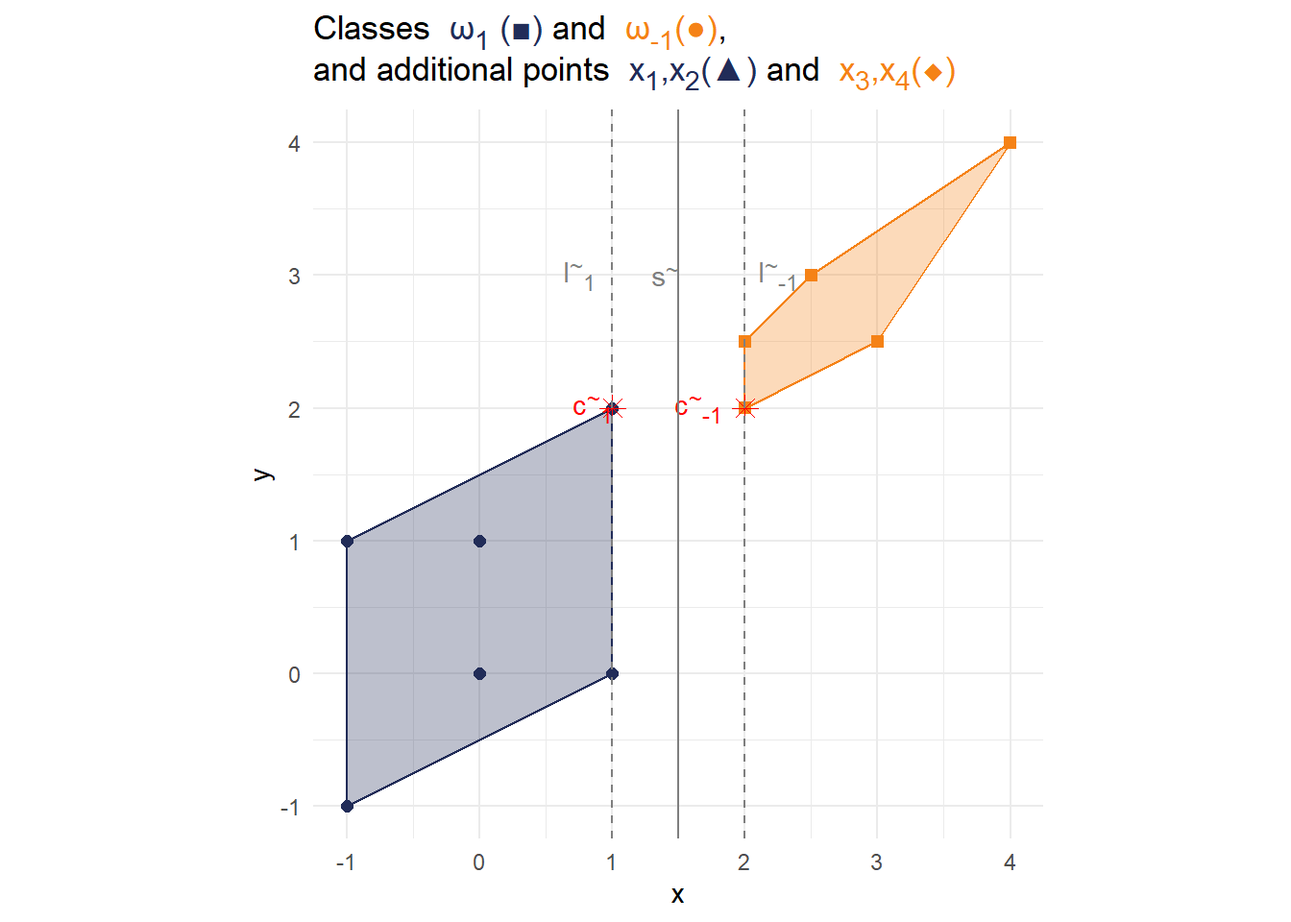
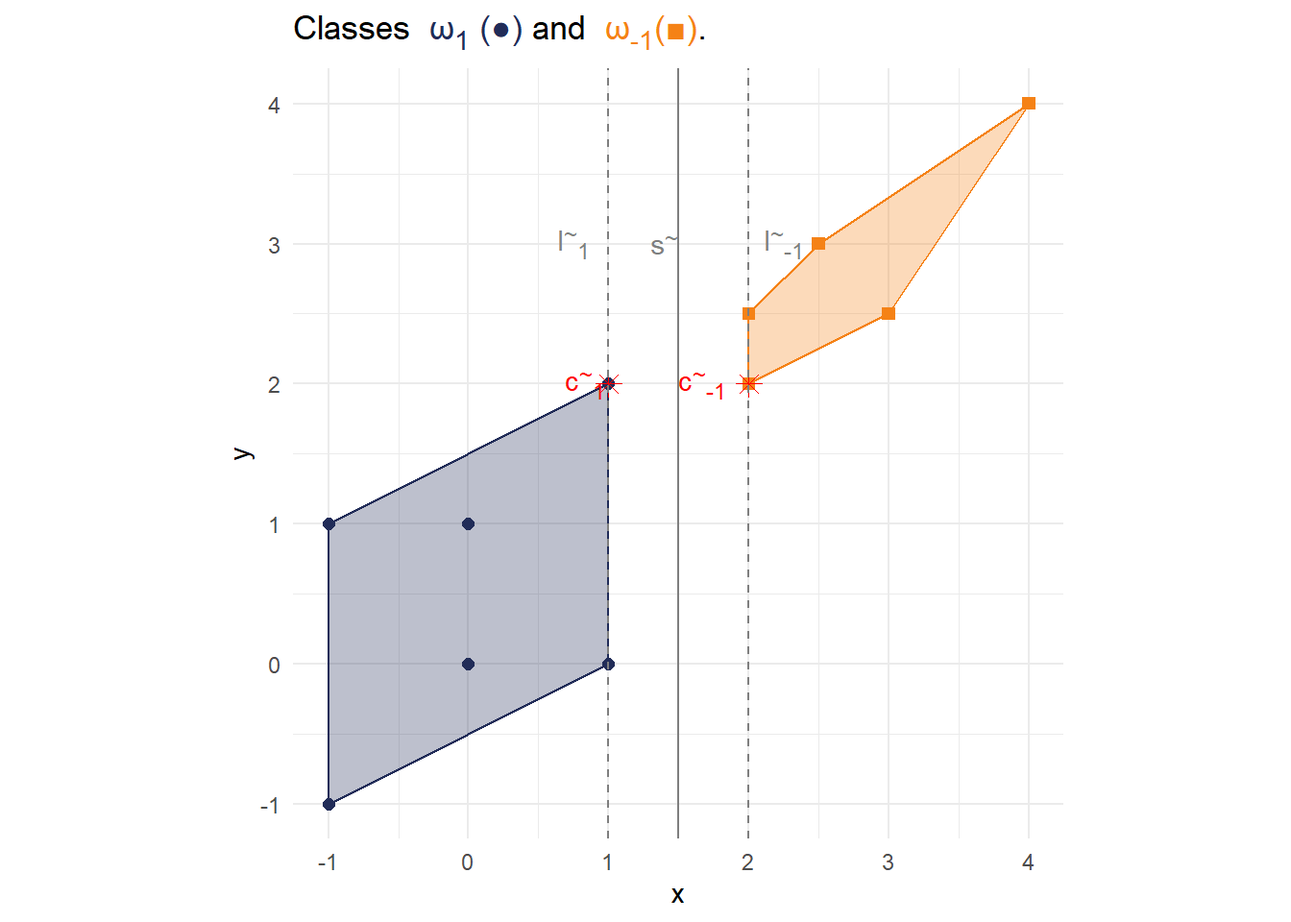
Update Solution Ex07

diff --git a/ML/Exercise07/Exercise_07_solution.html b/ML/Exercise07/Exercise_07_solution.html
@@ -335,8 +335,8 @@ Solution
 <div class="callout-body-container callout-body">
 <div class="cell">
 <div class="sourceCode cell-code" id="cb9"><pre class="sourceCode r code-with-copy"><code class="sourceCode r"><span id="cb9-1"><a href="#cb9-1" aria-hidden="true" tabindex="-1"></a>title_text <span class="ot">&lt;-</span> glue<span class="sc">::</span><span class="fu">glue</span>(</span>
-<span id="cb9-2"><a href="#cb9-2" aria-hidden="true" tabindex="-1"></a><span class="st">"Classes &lt;span style='color:{cols['1']};'&gt; &amp;omega;&lt;sub&gt;1&lt;/sub&gt;  (\u25A0)&lt;/span&gt;</span></span>
-<span id="cb9-3"><a href="#cb9-3" aria-hidden="true" tabindex="-1"></a><span class="st">and &lt;span style='color:{cols['-1']};'&gt; &amp;omega;&lt;sub&gt;-1&lt;/sub&gt;(\u25CF)&lt;/span&gt;,&lt;br&gt; and</span></span>
+<span id="cb9-2"><a href="#cb9-2" aria-hidden="true" tabindex="-1"></a><span class="st">"Classes &lt;span style='color:{cols['1']};'&gt; &amp;omega;&lt;sub&gt;1&lt;/sub&gt; (\u25CF) &lt;/span&gt;</span></span>
+<span id="cb9-3"><a href="#cb9-3" aria-hidden="true" tabindex="-1"></a><span class="st">and &lt;span style='color:{cols['-1']};'&gt; &amp;omega;&lt;sub&gt;-1&lt;/sub&gt;(\u25A0)&lt;/span&gt;,&lt;br&gt; and</span></span>
 <span id="cb9-4"><a href="#cb9-4" aria-hidden="true" tabindex="-1"></a><span class="st">additional points &lt;span style='color:{cols['1']};'&gt; x&lt;sub&gt;1&lt;/sub&gt;,x&lt;sub&gt;2&lt;/sub&gt;(\u25B2)&lt;/span&gt;</span></span>
 <span id="cb9-5"><a href="#cb9-5" aria-hidden="true" tabindex="-1"></a><span class="st">and &lt;span style='color:{cols['-1']};'&gt; x&lt;sub&gt;3&lt;/sub&gt;,x&lt;sub&gt;4&lt;/sub&gt;(\u25C6)&lt;/span&gt;"</span></span>
 <span id="cb9-6"><a href="#cb9-6" aria-hidden="true" tabindex="-1"></a>)</span>
@@ -377,68 +377,73 @@ Solution
 </div>
 <div class="callout-body-container callout-body">
 <div class="cell">
-<div class="sourceCode cell-code" id="cb10"><pre class="sourceCode r code-with-copy"><code class="sourceCode r"><span id="cb10-1"><a href="#cb10-1" aria-hidden="true" tabindex="-1"></a><span class="co">#Define new Data and Hull</span></span>
-<span id="cb10-2"><a href="#cb10-2" aria-hidden="true" tabindex="-1"></a>data_new <span class="ot">&lt;-</span> <span class="fu">rbind</span>(data,<span class="fu">c</span>(<span class="dv">1</span>,<span class="dv">2</span>,<span class="dv">1</span>))</span>
-<span id="cb10-3"><a href="#cb10-3" aria-hidden="true" tabindex="-1"></a>hull_new <span class="ot">&lt;-</span> data_new <span class="sc">%&gt;%</span> <span class="fu">group_by</span>(label) <span class="sc">%&gt;%</span> <span class="fu">slice</span>(<span class="fu">chull</span>(x,y))</span>
-<span id="cb10-4"><a href="#cb10-4" aria-hidden="true" tabindex="-1"></a></span>
-<span id="cb10-5"><a href="#cb10-5" aria-hidden="true" tabindex="-1"></a><span class="co">#New Annotations</span></span>
-<span id="cb10-6"><a href="#cb10-6" aria-hidden="true" tabindex="-1"></a><span class="do">## Annotate c</span></span>
-<span id="cb10-7"><a href="#cb10-7" aria-hidden="true" tabindex="-1"></a>df_annotate_new <span class="ot">&lt;-</span> <span class="fu">tibble</span>(</span>
-<span id="cb10-8"><a href="#cb10-8" aria-hidden="true" tabindex="-1"></a>  <span class="at">label =</span> <span class="fu">c</span>(</span>
-<span id="cb10-9"><a href="#cb10-9" aria-hidden="true" tabindex="-1"></a>    <span class="st">"&lt;span style='color:red;'&gt; c&lt;sup&gt;~&lt;/sup&gt;&lt;sub&gt;1&lt;/sub&gt;&lt;/span&gt;"</span>,</span>
-<span id="cb10-10"><a href="#cb10-10" aria-hidden="true" tabindex="-1"></a>    <span class="st">"&lt;span style='color:red;'&gt; c&lt;sup&gt;~&lt;/sup&gt;&lt;sub&gt;-1&lt;/sub&gt;&lt;/span&gt;"</span></span>
-<span id="cb10-11"><a href="#cb10-11" aria-hidden="true" tabindex="-1"></a>  ),</span>
-<span id="cb10-12"><a href="#cb10-12" aria-hidden="true" tabindex="-1"></a>  <span class="at">x =</span> <span class="fu">c</span>(<span class="fl">0.5</span>,<span class="dv">2</span>),</span>
-<span id="cb10-13"><a href="#cb10-13" aria-hidden="true" tabindex="-1"></a>  <span class="at">y =</span> <span class="fu">c</span>(<span class="dv">2</span>,<span class="dv">2</span>),</span>
-<span id="cb10-14"><a href="#cb10-14" aria-hidden="true" tabindex="-1"></a>  <span class="at">hjust =</span> <span class="fu">c</span>(<span class="sc">-</span><span class="fl">0.3</span>, <span class="fl">1.2</span>)</span>
-<span id="cb10-15"><a href="#cb10-15" aria-hidden="true" tabindex="-1"></a>)</span>
-<span id="cb10-16"><a href="#cb10-16" aria-hidden="true" tabindex="-1"></a>df_c_new <span class="ot">&lt;-</span> <span class="fu">tibble</span>(<span class="at">x =</span> <span class="fu">c</span>(<span class="dv">1</span>,<span class="dv">2</span>),</span>
-<span id="cb10-17"><a href="#cb10-17" aria-hidden="true" tabindex="-1"></a>             <span class="at">y =</span> <span class="fu">c</span>(<span class="dv">2</span>,<span class="dv">2</span>))</span>
-<span id="cb10-18"><a href="#cb10-18" aria-hidden="true" tabindex="-1"></a><span class="do">## Annotate l and s</span></span>
-<span id="cb10-19"><a href="#cb10-19" aria-hidden="true" tabindex="-1"></a>df_annotate_l_new <span class="ot">&lt;-</span> <span class="fu">tibble</span>(</span>
-<span id="cb10-20"><a href="#cb10-20" aria-hidden="true" tabindex="-1"></a>  <span class="at">label =</span> <span class="fu">c</span>(</span>
-<span id="cb10-21"><a href="#cb10-21" aria-hidden="true" tabindex="-1"></a>    <span class="st">"&lt;span style='color:grey50;'&gt; l&lt;sup&gt;~&lt;/sup&gt;&lt;sub&gt;-1&lt;/sub&gt;&lt;/span&gt;"</span>,</span>
-<span id="cb10-22"><a href="#cb10-22" aria-hidden="true" tabindex="-1"></a>    <span class="st">"&lt;span style='color:grey50;'&gt; l&lt;sup&gt;~&lt;/sup&gt;&lt;sub&gt;1&lt;/sub&gt;&lt;/span&gt;"</span>,</span>
-<span id="cb10-23"><a href="#cb10-23" aria-hidden="true" tabindex="-1"></a>    <span class="st">"&lt;span style='color:grey50;'&gt; s&lt;sup&gt;~&lt;/sup&gt;&lt;/span&gt;"</span></span>
-<span id="cb10-24"><a href="#cb10-24" aria-hidden="true" tabindex="-1"></a>  ),</span>
-<span id="cb10-25"><a href="#cb10-25" aria-hidden="true" tabindex="-1"></a>  <span class="at">x =</span> <span class="fu">c</span>(<span class="fl">2.25</span>,<span class="fl">0.75</span>,<span class="fl">1.4</span>),</span>
-<span id="cb10-26"><a href="#cb10-26" aria-hidden="true" tabindex="-1"></a>  <span class="at">y =</span> <span class="fu">c</span>(<span class="dv">3</span>,<span class="dv">3</span>,<span class="dv">3</span>)</span>
-<span id="cb10-27"><a href="#cb10-27" aria-hidden="true" tabindex="-1"></a>)</span>
-<span id="cb10-28"><a href="#cb10-28" aria-hidden="true" tabindex="-1"></a></span>
-<span id="cb10-29"><a href="#cb10-29" aria-hidden="true" tabindex="-1"></a><span class="co"># Generate new plot</span></span>
-<span id="cb10-30"><a href="#cb10-30" aria-hidden="true" tabindex="-1"></a>p_new <span class="ot">&lt;-</span> <span class="fu">ggplot</span>() <span class="sc">+</span></span>
-<span id="cb10-31"><a href="#cb10-31" aria-hidden="true" tabindex="-1"></a>  <span class="fu">geom_point</span>(<span class="at">data =</span> data_new,<span class="fu">aes</span>(<span class="at">x=</span>x,<span class="at">y=</span>y,<span class="at">color =</span> label, <span class="at">shape =</span> label),<span class="at">size =</span> <span class="dv">2</span>)<span class="sc">+</span></span>
-<span id="cb10-32"><a href="#cb10-32" aria-hidden="true" tabindex="-1"></a>  <span class="fu">geom_polygon</span>(<span class="at">data =</span> hull_new, <span class="fu">aes</span>(<span class="at">x=</span>x, <span class="at">y=</span>y,<span class="at">color =</span> label, <span class="at">fill =</span> label),<span class="at">alpha =</span> <span class="fl">0.3</span>)<span class="sc">+</span></span>
-<span id="cb10-33"><a href="#cb10-33" aria-hidden="true" tabindex="-1"></a>  <span class="fu">geom_point</span>(<span class="at">data =</span> df_c_new,</span>
-<span id="cb10-34"><a href="#cb10-34" aria-hidden="true" tabindex="-1"></a>                <span class="fu">aes</span>(<span class="at">x=</span>x,<span class="at">y=</span>y),</span>
-<span id="cb10-35"><a href="#cb10-35" aria-hidden="true" tabindex="-1"></a>                <span class="at">shape =</span> <span class="fu">c</span>(<span class="dv">8</span>,<span class="dv">8</span>),</span>
-<span id="cb10-36"><a href="#cb10-36" aria-hidden="true" tabindex="-1"></a>                <span class="at">size =</span> <span class="dv">3</span>,</span>
-<span id="cb10-37"><a href="#cb10-37" aria-hidden="true" tabindex="-1"></a>                <span class="at">color =</span> <span class="fu">c</span>(<span class="st">"red"</span>,<span class="st">"red"</span>))<span class="sc">+</span></span>
-<span id="cb10-38"><a href="#cb10-38" aria-hidden="true" tabindex="-1"></a>  <span class="fu">geom_richtext</span>(<span class="at">data =</span> df_annotate_new,</span>
-<span id="cb10-39"><a href="#cb10-39" aria-hidden="true" tabindex="-1"></a>                <span class="fu">aes</span>(<span class="at">x=</span>x, <span class="at">y=</span>y, <span class="at">label=</span>label, <span class="at">hjust =</span> hjust),</span>
-<span id="cb10-40"><a href="#cb10-40" aria-hidden="true" tabindex="-1"></a>                <span class="at">fill =</span> <span class="cn">NA</span>,</span>
-<span id="cb10-41"><a href="#cb10-41" aria-hidden="true" tabindex="-1"></a>                <span class="at">label.color =</span> <span class="cn">NA</span>)<span class="sc">+</span></span>
-<span id="cb10-42"><a href="#cb10-42" aria-hidden="true" tabindex="-1"></a>  <span class="fu">geom_vline</span>(<span class="at">xintercept =</span> <span class="fl">1.5</span>, <span class="at">color =</span> <span class="st">"grey50"</span>)<span class="sc">+</span></span>
-<span id="cb10-43"><a href="#cb10-43" aria-hidden="true" tabindex="-1"></a>  <span class="fu">geom_vline</span>(<span class="at">xintercept =</span> <span class="dv">1</span>, <span class="at">color =</span> <span class="st">"grey50"</span>, <span class="at">linetype =</span> <span class="dv">2</span>)<span class="sc">+</span></span>
-<span id="cb10-44"><a href="#cb10-44" aria-hidden="true" tabindex="-1"></a>  <span class="fu">geom_vline</span>(<span class="at">xintercept =</span> <span class="dv">2</span>, <span class="at">color =</span> <span class="st">"grey50"</span>, <span class="at">linetype =</span> <span class="dv">2</span>)<span class="sc">+</span></span>
-<span id="cb10-45"><a href="#cb10-45" aria-hidden="true" tabindex="-1"></a>  <span class="fu">geom_richtext</span>(<span class="at">data =</span> df_annotate_l_new,</span>
-<span id="cb10-46"><a href="#cb10-46" aria-hidden="true" tabindex="-1"></a>       <span class="fu">aes</span>(<span class="at">x=</span>x, <span class="at">y=</span>y, <span class="at">label=</span>label),</span>
-<span id="cb10-47"><a href="#cb10-47" aria-hidden="true" tabindex="-1"></a>       <span class="at">fill =</span> <span class="cn">NA</span>,</span>
-<span id="cb10-48"><a href="#cb10-48" aria-hidden="true" tabindex="-1"></a>       <span class="at">label.color =</span> <span class="cn">NA</span>)<span class="sc">+</span></span>
-<span id="cb10-49"><a href="#cb10-49" aria-hidden="true" tabindex="-1"></a>  <span class="fu">scale_fill_manual</span>(<span class="at">values =</span> cols)<span class="sc">+</span></span>
-<span id="cb10-50"><a href="#cb10-50" aria-hidden="true" tabindex="-1"></a>  <span class="fu">scale_color_manual</span>(<span class="at">values =</span> cols) <span class="sc">+</span></span>
-<span id="cb10-51"><a href="#cb10-51" aria-hidden="true" tabindex="-1"></a>  <span class="fu">scale_shape_manual</span>(<span class="at">values =</span> <span class="fu">c</span>(<span class="dv">15</span>, <span class="dv">16</span>)) <span class="sc">+</span></span>
-<span id="cb10-52"><a href="#cb10-52" aria-hidden="true" tabindex="-1"></a>  <span class="fu">labs</span>(</span>
-<span id="cb10-53"><a href="#cb10-53" aria-hidden="true" tabindex="-1"></a>    <span class="at">title =</span> title_text</span>
-<span id="cb10-54"><a href="#cb10-54" aria-hidden="true" tabindex="-1"></a>  )<span class="sc">+</span></span>
-<span id="cb10-55"><a href="#cb10-55" aria-hidden="true" tabindex="-1"></a>  <span class="fu">theme_minimal</span>()<span class="sc">+</span></span>
-<span id="cb10-56"><a href="#cb10-56" aria-hidden="true" tabindex="-1"></a>  <span class="fu">theme</span>(</span>
-<span id="cb10-57"><a href="#cb10-57" aria-hidden="true" tabindex="-1"></a>    <span class="at">plot.title =</span> <span class="fu">element_markdown</span>(),</span>
-<span id="cb10-58"><a href="#cb10-58" aria-hidden="true" tabindex="-1"></a>    <span class="at">legend.position =</span> <span class="st">"None"</span></span>
+<div class="sourceCode cell-code" id="cb10"><pre class="sourceCode r code-with-copy"><code class="sourceCode r"><span id="cb10-1"><a href="#cb10-1" aria-hidden="true" tabindex="-1"></a>title_text <span class="ot">&lt;-</span> glue<span class="sc">::</span><span class="fu">glue</span>(</span>
+<span id="cb10-2"><a href="#cb10-2" aria-hidden="true" tabindex="-1"></a><span class="st">"Classes &lt;span style='color:{cols['1']};'&gt; &amp;omega;&lt;sub&gt;1&lt;/sub&gt; (\u25CF)&lt;/span&gt;</span></span>
+<span id="cb10-3"><a href="#cb10-3" aria-hidden="true" tabindex="-1"></a><span class="st">and &lt;span style='color:{cols['-1']};'&gt; &amp;omega;&lt;sub&gt;-1&lt;/sub&gt;(\u25A0)&lt;/span&gt;."</span></span>
+<span id="cb10-4"><a href="#cb10-4" aria-hidden="true" tabindex="-1"></a>)</span>
+<span id="cb10-5"><a href="#cb10-5" aria-hidden="true" tabindex="-1"></a></span>
+<span id="cb10-6"><a href="#cb10-6" aria-hidden="true" tabindex="-1"></a><span class="co">#Define new Data and Hull</span></span>
+<span id="cb10-7"><a href="#cb10-7" aria-hidden="true" tabindex="-1"></a>data_new <span class="ot">&lt;-</span> <span class="fu">rbind</span>(data,<span class="fu">c</span>(<span class="dv">1</span>,<span class="dv">2</span>,<span class="dv">1</span>))</span>
+<span id="cb10-8"><a href="#cb10-8" aria-hidden="true" tabindex="-1"></a>hull_new <span class="ot">&lt;-</span> data_new <span class="sc">%&gt;%</span> <span class="fu">group_by</span>(label) <span class="sc">%&gt;%</span> <span class="fu">slice</span>(<span class="fu">chull</span>(x,y))</span>
+<span id="cb10-9"><a href="#cb10-9" aria-hidden="true" tabindex="-1"></a></span>
+<span id="cb10-10"><a href="#cb10-10" aria-hidden="true" tabindex="-1"></a><span class="co">#New Annotations</span></span>
+<span id="cb10-11"><a href="#cb10-11" aria-hidden="true" tabindex="-1"></a><span class="do">## Annotate c</span></span>
+<span id="cb10-12"><a href="#cb10-12" aria-hidden="true" tabindex="-1"></a>df_annotate_new <span class="ot">&lt;-</span> <span class="fu">tibble</span>(</span>
+<span id="cb10-13"><a href="#cb10-13" aria-hidden="true" tabindex="-1"></a>  <span class="at">label =</span> <span class="fu">c</span>(</span>
+<span id="cb10-14"><a href="#cb10-14" aria-hidden="true" tabindex="-1"></a>    <span class="st">"&lt;span style='color:red;'&gt; c&lt;sup&gt;~&lt;/sup&gt;&lt;sub&gt;1&lt;/sub&gt;&lt;/span&gt;"</span>,</span>
+<span id="cb10-15"><a href="#cb10-15" aria-hidden="true" tabindex="-1"></a>    <span class="st">"&lt;span style='color:red;'&gt; c&lt;sup&gt;~&lt;/sup&gt;&lt;sub&gt;-1&lt;/sub&gt;&lt;/span&gt;"</span></span>
+<span id="cb10-16"><a href="#cb10-16" aria-hidden="true" tabindex="-1"></a>  ),</span>
+<span id="cb10-17"><a href="#cb10-17" aria-hidden="true" tabindex="-1"></a>  <span class="at">x =</span> <span class="fu">c</span>(<span class="fl">0.5</span>,<span class="dv">2</span>),</span>
+<span id="cb10-18"><a href="#cb10-18" aria-hidden="true" tabindex="-1"></a>  <span class="at">y =</span> <span class="fu">c</span>(<span class="dv">2</span>,<span class="dv">2</span>),</span>
+<span id="cb10-19"><a href="#cb10-19" aria-hidden="true" tabindex="-1"></a>  <span class="at">hjust =</span> <span class="fu">c</span>(<span class="sc">-</span><span class="fl">0.3</span>, <span class="fl">1.2</span>)</span>
+<span id="cb10-20"><a href="#cb10-20" aria-hidden="true" tabindex="-1"></a>)</span>
+<span id="cb10-21"><a href="#cb10-21" aria-hidden="true" tabindex="-1"></a>df_c_new <span class="ot">&lt;-</span> <span class="fu">tibble</span>(<span class="at">x =</span> <span class="fu">c</span>(<span class="dv">1</span>,<span class="dv">2</span>),</span>
+<span id="cb10-22"><a href="#cb10-22" aria-hidden="true" tabindex="-1"></a>             <span class="at">y =</span> <span class="fu">c</span>(<span class="dv">2</span>,<span class="dv">2</span>))</span>
+<span id="cb10-23"><a href="#cb10-23" aria-hidden="true" tabindex="-1"></a><span class="do">## Annotate l and s</span></span>
+<span id="cb10-24"><a href="#cb10-24" aria-hidden="true" tabindex="-1"></a>df_annotate_l_new <span class="ot">&lt;-</span> <span class="fu">tibble</span>(</span>
+<span id="cb10-25"><a href="#cb10-25" aria-hidden="true" tabindex="-1"></a>  <span class="at">label =</span> <span class="fu">c</span>(</span>
+<span id="cb10-26"><a href="#cb10-26" aria-hidden="true" tabindex="-1"></a>    <span class="st">"&lt;span style='color:grey50;'&gt; l&lt;sup&gt;~&lt;/sup&gt;&lt;sub&gt;-1&lt;/sub&gt;&lt;/span&gt;"</span>,</span>
+<span id="cb10-27"><a href="#cb10-27" aria-hidden="true" tabindex="-1"></a>    <span class="st">"&lt;span style='color:grey50;'&gt; l&lt;sup&gt;~&lt;/sup&gt;&lt;sub&gt;1&lt;/sub&gt;&lt;/span&gt;"</span>,</span>
+<span id="cb10-28"><a href="#cb10-28" aria-hidden="true" tabindex="-1"></a>    <span class="st">"&lt;span style='color:grey50;'&gt; s&lt;sup&gt;~&lt;/sup&gt;&lt;/span&gt;"</span></span>
+<span id="cb10-29"><a href="#cb10-29" aria-hidden="true" tabindex="-1"></a>  ),</span>
+<span id="cb10-30"><a href="#cb10-30" aria-hidden="true" tabindex="-1"></a>  <span class="at">x =</span> <span class="fu">c</span>(<span class="fl">2.25</span>,<span class="fl">0.75</span>,<span class="fl">1.4</span>),</span>
+<span id="cb10-31"><a href="#cb10-31" aria-hidden="true" tabindex="-1"></a>  <span class="at">y =</span> <span class="fu">c</span>(<span class="dv">3</span>,<span class="dv">3</span>,<span class="dv">3</span>)</span>
+<span id="cb10-32"><a href="#cb10-32" aria-hidden="true" tabindex="-1"></a>)</span>
+<span id="cb10-33"><a href="#cb10-33" aria-hidden="true" tabindex="-1"></a></span>
+<span id="cb10-34"><a href="#cb10-34" aria-hidden="true" tabindex="-1"></a><span class="co"># Generate new plot</span></span>
+<span id="cb10-35"><a href="#cb10-35" aria-hidden="true" tabindex="-1"></a>p_new <span class="ot">&lt;-</span> <span class="fu">ggplot</span>() <span class="sc">+</span></span>
+<span id="cb10-36"><a href="#cb10-36" aria-hidden="true" tabindex="-1"></a>  <span class="fu">geom_point</span>(<span class="at">data =</span> data_new,<span class="fu">aes</span>(<span class="at">x=</span>x,<span class="at">y=</span>y,<span class="at">color =</span> label, <span class="at">shape =</span> label),<span class="at">size =</span> <span class="dv">2</span>)<span class="sc">+</span></span>
+<span id="cb10-37"><a href="#cb10-37" aria-hidden="true" tabindex="-1"></a>  <span class="fu">geom_polygon</span>(<span class="at">data =</span> hull_new, <span class="fu">aes</span>(<span class="at">x=</span>x, <span class="at">y=</span>y,<span class="at">color =</span> label, <span class="at">fill =</span> label),<span class="at">alpha =</span> <span class="fl">0.3</span>)<span class="sc">+</span></span>
+<span id="cb10-38"><a href="#cb10-38" aria-hidden="true" tabindex="-1"></a>  <span class="fu">geom_point</span>(<span class="at">data =</span> df_c_new,</span>
+<span id="cb10-39"><a href="#cb10-39" aria-hidden="true" tabindex="-1"></a>                <span class="fu">aes</span>(<span class="at">x=</span>x,<span class="at">y=</span>y),</span>
+<span id="cb10-40"><a href="#cb10-40" aria-hidden="true" tabindex="-1"></a>                <span class="at">shape =</span> <span class="fu">c</span>(<span class="dv">8</span>,<span class="dv">8</span>),</span>
+<span id="cb10-41"><a href="#cb10-41" aria-hidden="true" tabindex="-1"></a>                <span class="at">size =</span> <span class="dv">3</span>,</span>
+<span id="cb10-42"><a href="#cb10-42" aria-hidden="true" tabindex="-1"></a>                <span class="at">color =</span> <span class="fu">c</span>(<span class="st">"red"</span>,<span class="st">"red"</span>))<span class="sc">+</span></span>
+<span id="cb10-43"><a href="#cb10-43" aria-hidden="true" tabindex="-1"></a>  <span class="fu">geom_richtext</span>(<span class="at">data =</span> df_annotate_new,</span>
+<span id="cb10-44"><a href="#cb10-44" aria-hidden="true" tabindex="-1"></a>                <span class="fu">aes</span>(<span class="at">x=</span>x, <span class="at">y=</span>y, <span class="at">label=</span>label, <span class="at">hjust =</span> hjust),</span>
+<span id="cb10-45"><a href="#cb10-45" aria-hidden="true" tabindex="-1"></a>                <span class="at">fill =</span> <span class="cn">NA</span>,</span>
+<span id="cb10-46"><a href="#cb10-46" aria-hidden="true" tabindex="-1"></a>                <span class="at">label.color =</span> <span class="cn">NA</span>)<span class="sc">+</span></span>
+<span id="cb10-47"><a href="#cb10-47" aria-hidden="true" tabindex="-1"></a>  <span class="fu">geom_vline</span>(<span class="at">xintercept =</span> <span class="fl">1.5</span>, <span class="at">color =</span> <span class="st">"grey50"</span>)<span class="sc">+</span></span>
+<span id="cb10-48"><a href="#cb10-48" aria-hidden="true" tabindex="-1"></a>  <span class="fu">geom_vline</span>(<span class="at">xintercept =</span> <span class="dv">1</span>, <span class="at">color =</span> <span class="st">"grey50"</span>, <span class="at">linetype =</span> <span class="dv">2</span>)<span class="sc">+</span></span>
+<span id="cb10-49"><a href="#cb10-49" aria-hidden="true" tabindex="-1"></a>  <span class="fu">geom_vline</span>(<span class="at">xintercept =</span> <span class="dv">2</span>, <span class="at">color =</span> <span class="st">"grey50"</span>, <span class="at">linetype =</span> <span class="dv">2</span>)<span class="sc">+</span></span>
+<span id="cb10-50"><a href="#cb10-50" aria-hidden="true" tabindex="-1"></a>  <span class="fu">geom_richtext</span>(<span class="at">data =</span> df_annotate_l_new,</span>
+<span id="cb10-51"><a href="#cb10-51" aria-hidden="true" tabindex="-1"></a>       <span class="fu">aes</span>(<span class="at">x=</span>x, <span class="at">y=</span>y, <span class="at">label=</span>label),</span>
+<span id="cb10-52"><a href="#cb10-52" aria-hidden="true" tabindex="-1"></a>       <span class="at">fill =</span> <span class="cn">NA</span>,</span>
+<span id="cb10-53"><a href="#cb10-53" aria-hidden="true" tabindex="-1"></a>       <span class="at">label.color =</span> <span class="cn">NA</span>)<span class="sc">+</span></span>
+<span id="cb10-54"><a href="#cb10-54" aria-hidden="true" tabindex="-1"></a>  <span class="fu">scale_fill_manual</span>(<span class="at">values =</span> cols)<span class="sc">+</span></span>
+<span id="cb10-55"><a href="#cb10-55" aria-hidden="true" tabindex="-1"></a>  <span class="fu">scale_color_manual</span>(<span class="at">values =</span> cols) <span class="sc">+</span></span>
+<span id="cb10-56"><a href="#cb10-56" aria-hidden="true" tabindex="-1"></a>  <span class="fu">scale_shape_manual</span>(<span class="at">values =</span> <span class="fu">c</span>(<span class="dv">15</span>, <span class="dv">16</span>)) <span class="sc">+</span></span>
+<span id="cb10-57"><a href="#cb10-57" aria-hidden="true" tabindex="-1"></a>  <span class="fu">labs</span>(</span>
+<span id="cb10-58"><a href="#cb10-58" aria-hidden="true" tabindex="-1"></a>    <span class="at">title =</span> title_text</span>
 <span id="cb10-59"><a href="#cb10-59" aria-hidden="true" tabindex="-1"></a>  )<span class="sc">+</span></span>
-<span id="cb10-60"><a href="#cb10-60" aria-hidden="true" tabindex="-1"></a>  <span class="fu">coord_fixed</span>()</span>
-<span id="cb10-61"><a href="#cb10-61" aria-hidden="true" tabindex="-1"></a></span>
-<span id="cb10-62"><a href="#cb10-62" aria-hidden="true" tabindex="-1"></a>p_new</span></code><button title="Copy to Clipboard" class="code-copy-button"><i class="bi"></i></button></pre></div>
+<span id="cb10-60"><a href="#cb10-60" aria-hidden="true" tabindex="-1"></a>  <span class="fu">theme_minimal</span>()<span class="sc">+</span></span>
+<span id="cb10-61"><a href="#cb10-61" aria-hidden="true" tabindex="-1"></a>  <span class="fu">theme</span>(</span>
+<span id="cb10-62"><a href="#cb10-62" aria-hidden="true" tabindex="-1"></a>    <span class="at">plot.title =</span> <span class="fu">element_markdown</span>(),</span>
+<span id="cb10-63"><a href="#cb10-63" aria-hidden="true" tabindex="-1"></a>    <span class="at">legend.position =</span> <span class="st">"None"</span></span>
+<span id="cb10-64"><a href="#cb10-64" aria-hidden="true" tabindex="-1"></a>  )<span class="sc">+</span></span>
+<span id="cb10-65"><a href="#cb10-65" aria-hidden="true" tabindex="-1"></a>  <span class="fu">coord_fixed</span>()</span>
+<span id="cb10-66"><a href="#cb10-66" aria-hidden="true" tabindex="-1"></a></span>
+<span id="cb10-67"><a href="#cb10-67" aria-hidden="true" tabindex="-1"></a>p_new</span></code><button title="Copy to Clipboard" class="code-copy-button"><i class="bi"></i></button></pre></div>
 <div class="cell-output-display">
 <p><img src="Exercise_07_solution_files/figure-html/unnamed-chunk-12-1.png" class="img-fluid" width="672"></p>
 </div>
@@ -618,7 +623,7 @@ Solution:
 <section id="exercise-2e" class="level3">
 <h3 class="anchored" data-anchor-id="exercise-2e">Exercise 2e:</h3>
 <p>Suppose we want to classify a new point <span class="math inline">\(x_3 = (2,2)^\top\)</span>. Assign this point to the correct class, both visually and using the decision function <span class="math display">\[
-  f(x) = \mathrm{sign}\left(\sum_{i=1}^{2} \alpha_i^*T_i(x_i^\top x_i+b)\right).
+  f(\tilde x) = \mathrm{sign}\left(\sum_{i=1}^{2} \alpha_i^*T_i(x_i^\top \tilde x+b)\right).
 \]</span></p>
 <div class="callout callout-style-default callout-tip callout-titled">
 <div class="callout-header d-flex align-content-center">
@@ -645,7 +650,7 @@ Solution
 <p>Since the point <span class="math inline">\((2,2)\)</span> is above the decision line, it belongs to class <span class="math inline">\(\omega_{-1}\)</span>.</p>
 <p>Plugging all the values into the decision function yields:</p>
 <p><span class="math display">\[
-f\begin{pmatrix}2\\2\end{pmatrix} = \mathrm{sign}\left(\frac{2}{5} \cdot 1 \cdot \begin{pmatrix}1\\1\end{pmatrix}^\top \cdot  \begin{pmatrix}2\\2\end{pmatrix} + \frac{2}{5}\cdot -1 \cdot \begin{pmatrix}2\\3\end{pmatrix}^\top \cdot  \begin{pmatrix}2\\2\end{pmatrix} + \frac{11}{5}\right) = \mathrm{sign}\left(-\frac{1}{5}\right) = -1.
+f\begin{pmatrix}2\\2\end{pmatrix} = \mathrm{sign}\left(\frac{2}{5} \cdot 1 \cdot \begin{pmatrix}1\\1\end{pmatrix}^\top \cdot  \begin{pmatrix}2\\2\end{pmatrix} +\frac{11}{5} + \frac{2}{5}\cdot -1 \left(\begin{pmatrix}2\\3\end{pmatrix}^\top \cdot  \begin{pmatrix}2\\2\end{pmatrix} + \frac{11}{5}\right)\right) = \mathrm{sign}\left(-\frac{12}{5}\right) = -1.
 \]</span> Therefore, the new point belongs to class <span class="math inline">\(\omega_{-1}\)</span>.</p>
 </div>
 </div>

diff --git a/ML/Exercise07/Exercise_07.html b/ML/Exercise07/Exercise_07.html
@@ -2,7 +2,7 @@
 <html xmlns="http://www.w3.org/1999/xhtml" lang="en" xml:lang="en"><head>
 
 <meta charset="utf-8">
-<meta name="generator" content="quarto-1.3.353">
+<meta name="generator" content="quarto-1.3.450">
 
 <meta name="viewport" content="width=device-width, initial-scale=1.0, user-scalable=yes">
 
@@ -272,7 +272,7 @@ Note on convex hulls
 <section id="exercise-2e" class="level3">
 <h3 class="anchored" data-anchor-id="exercise-2e">Exercise 2e:</h3>
 <p>Suppose we want to classify a new point <span class="math inline">\(x_3 = (2,2)^\top\)</span>. Assign this point to the correct class, both visually and using the decision function <span class="math display">\[
-  f(x) = \mathrm{sign}\left(\sum_{i=1}^{2} \alpha_i^*T_i(x_i^\top x_i+b)\right).
+  f(\tilde x) = \mathrm{sign}\left(\sum_{i=1}^{2} \alpha_i^*T_i(x_i^\top \tilde x+b)\right).
 \]</span></p>
 </section>
 </section>
